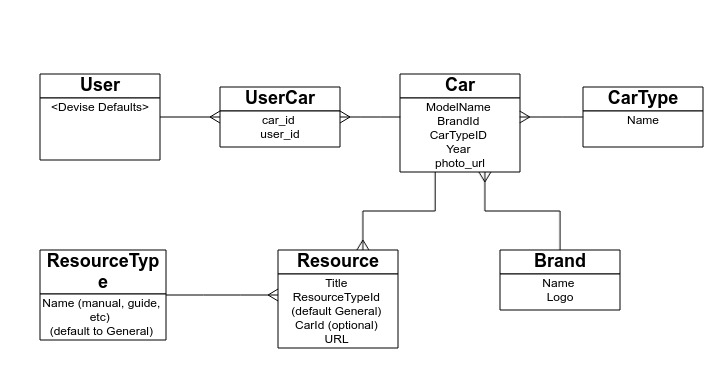
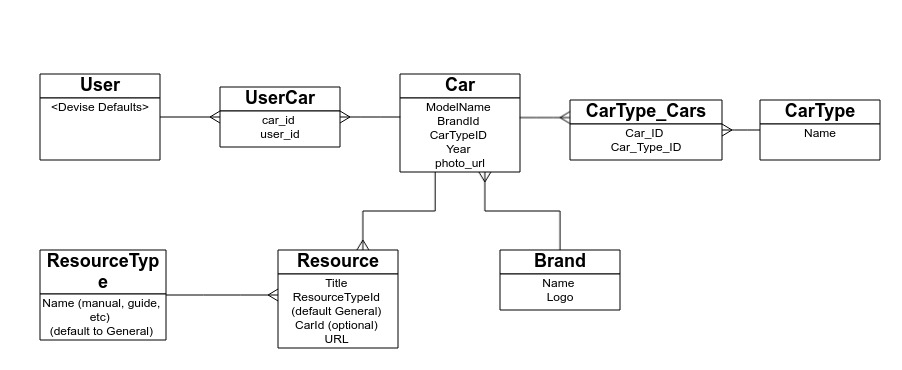
added CarType_Cars join table and related validations, update relation chart.

diff --git a/db/schema.rb b/db/schema.rb
@@ -10,13 +10,18 @@
 #
 # It's strongly recommended that you check this file into your version control system.
 
-ActiveRecord::Schema.define(version: 20171107205023) do
+ActiveRecord::Schema.define(version: 20171108151447) do
 
   create_table "brands", force: :cascade do |t|
     t.string "name"
     t.string "logo"
     t.datetime "created_at", null: false
     t.datetime "updated_at", null: false
+  end
+
+  create_table "car_type_cars", force: :cascade do |t|
+    t.integer "car_type_id"
+    t.integer "car_id"
   end
 
   create_table "car_types", force: :cascade do |t|
@@ -26,7 +31,6 @@ ActiveRecord::Schema.define(version: 20171107205023) do
   create_table "cars", force: :cascade do |t|
     t.string "name"
     t.integer "brand_id"
-    t.integer "car_type_id"
     t.integer "year"
     t.string "photo_url"
     t.datetime "created_at", null: false

diff --git a/db/migrate/20171108150136_create_car_type_cars.rb b/db/migrate/20171108150136_create_car_type_cars.rb
@@ -1,0 +1,8 @@
+class CreateCarTypeCars < ActiveRecord::Migration[5.1]
+  def change
+    create_table :car_type_cars do |t|
+      t.integer :car_type_id
+      t.integer :car_id
+    end
+  end
+end

diff --git a/db/migrate/20171108151447_remove_car_type_id_from_cars.rb b/db/migrate/20171108151447_remove_car_type_id_from_cars.rb
@@ -1,0 +1,5 @@
+class RemoveCarTypeIdFromCars < ActiveRecord::Migration[5.1]
+  def change
+    remove_column :cars, :car_type_id
+  end
+end

diff --git a/app/models/car_type_car.rb b/app/models/car_type_car.rb
@@ -1,0 +1,4 @@
+class CarTypeCar < ApplicationRecord
+  belongs_to :car_type
+  belongs_to :car
+end
